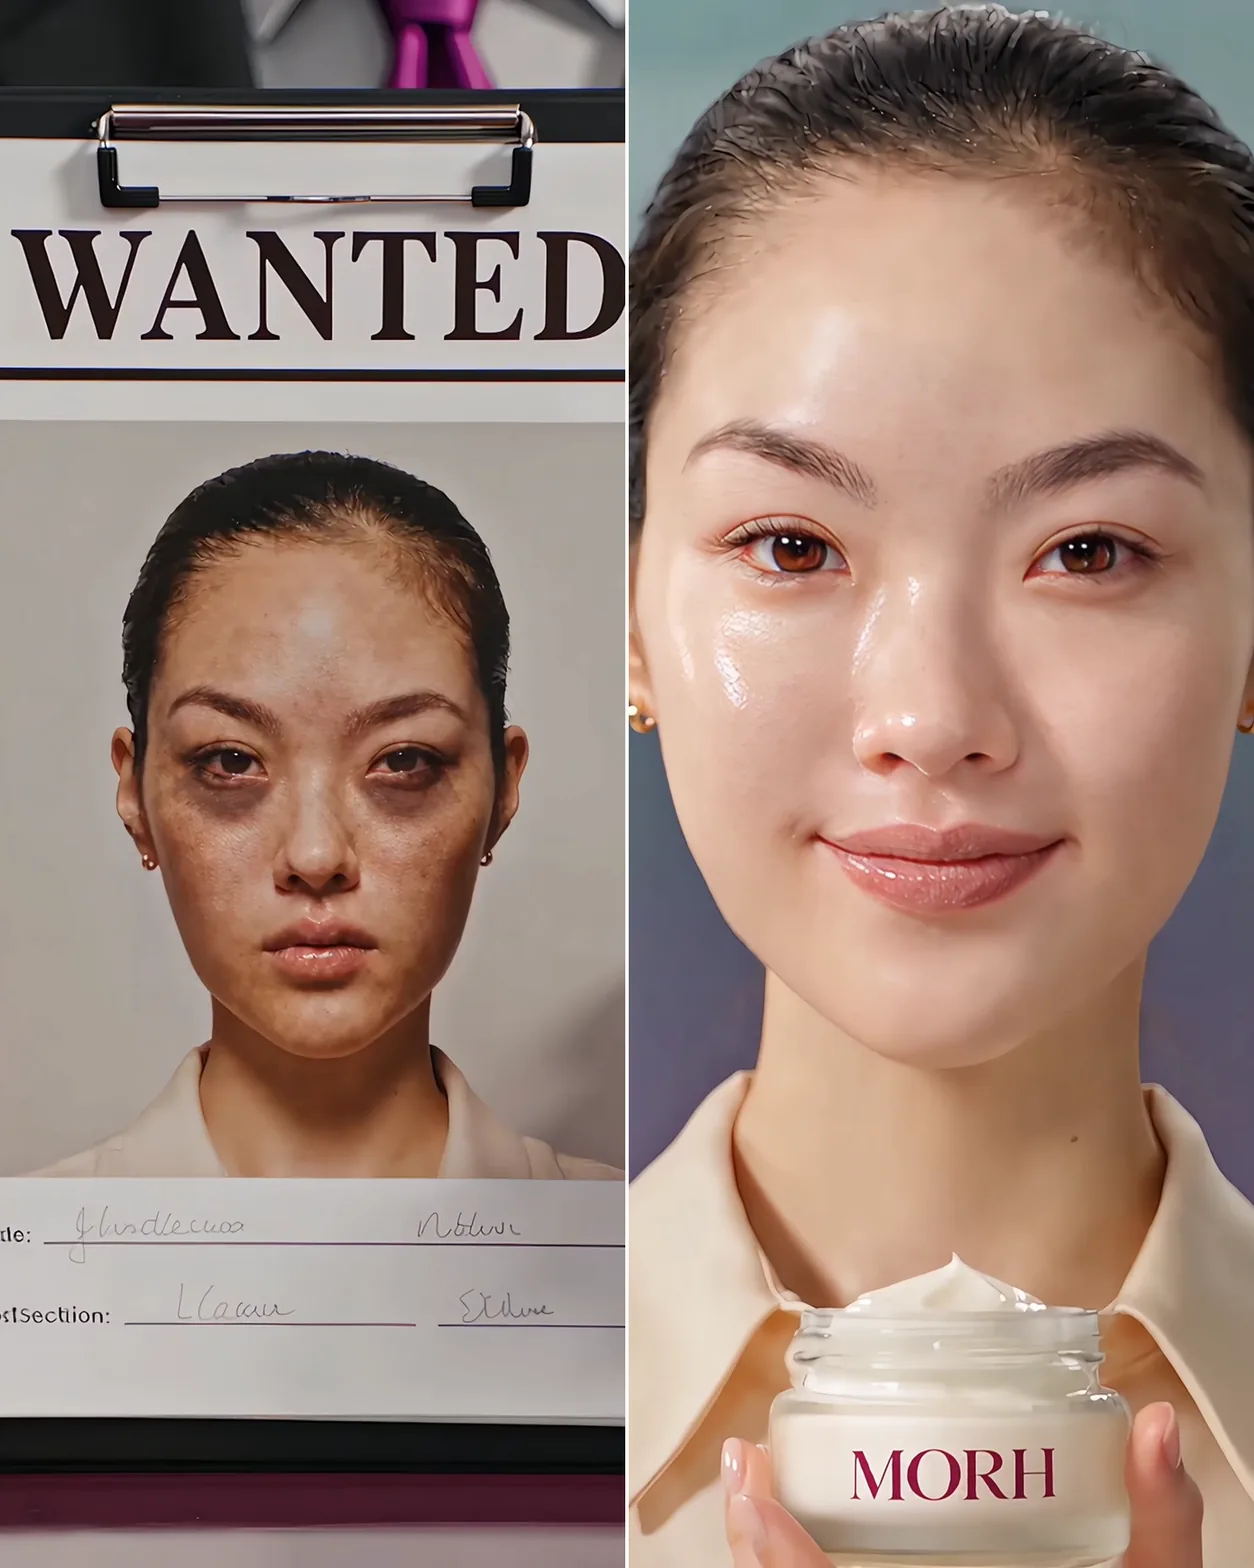
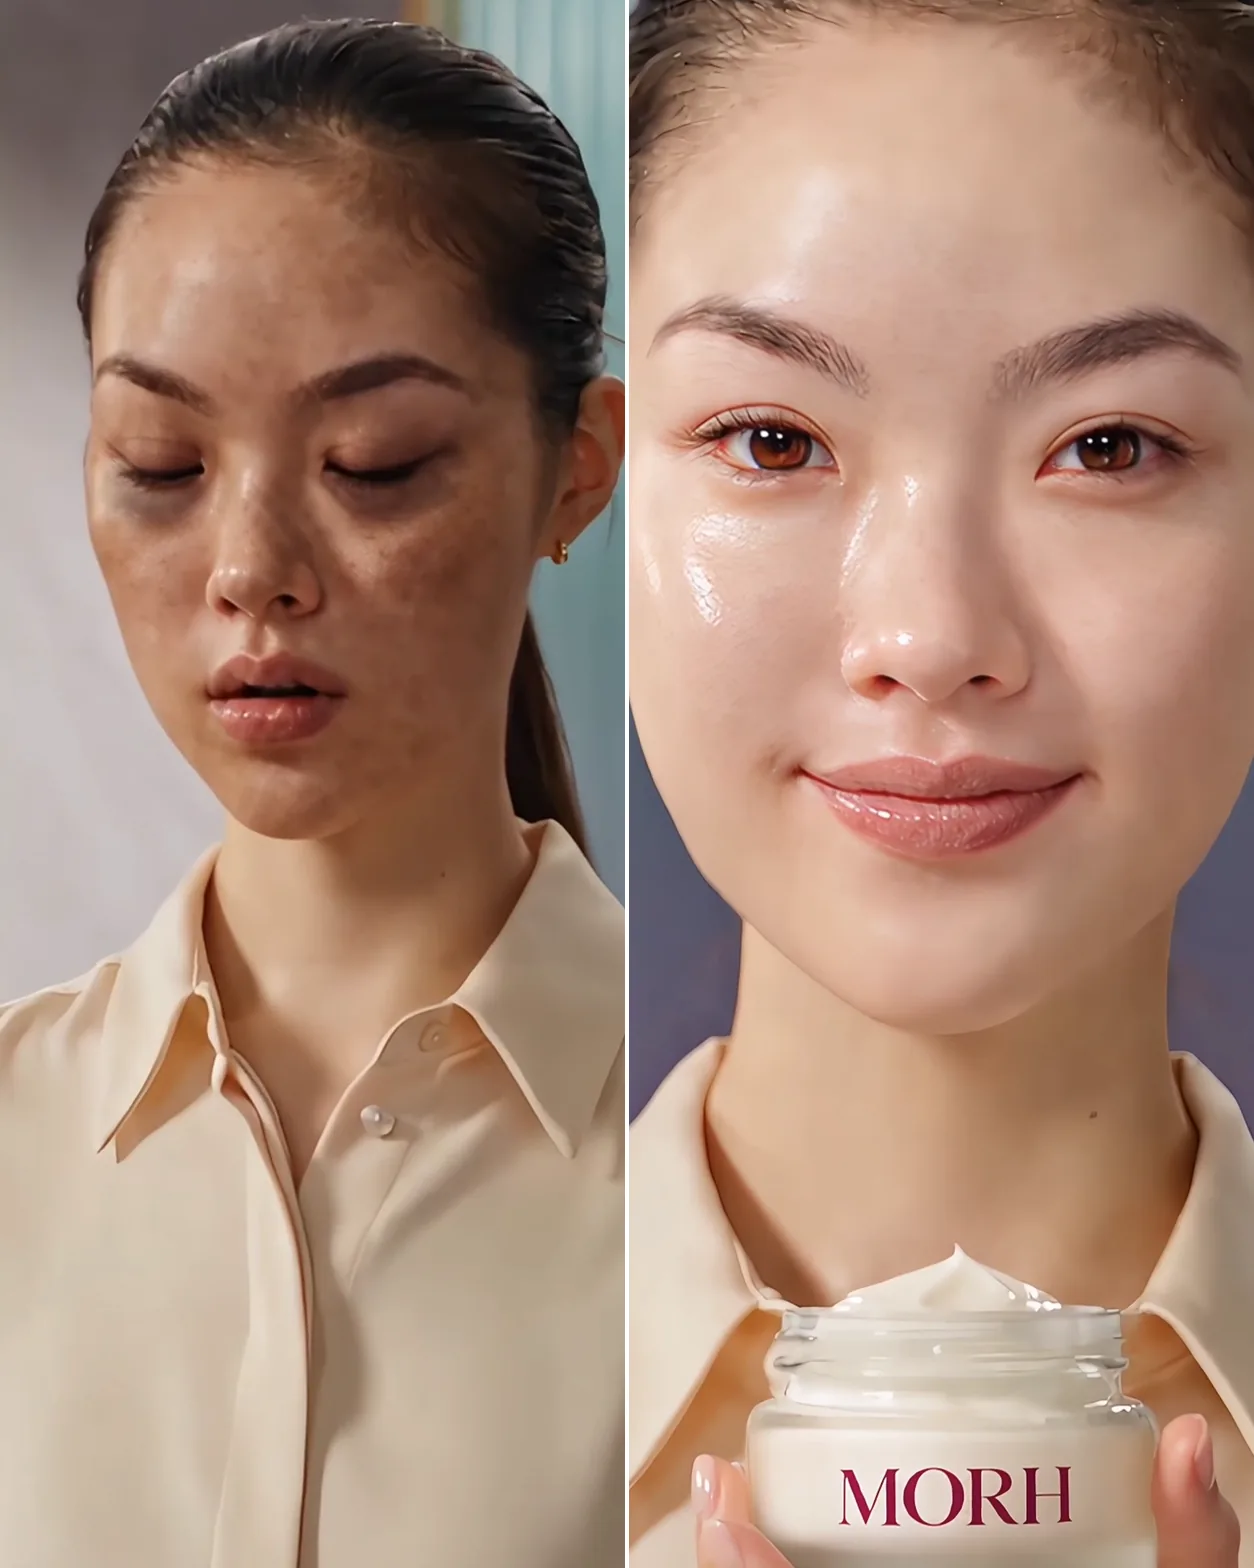
🍱 assets: 광고 첫 화면 전/후 사진과 고민 섹션 사진 추가
- 엘리베이터·로블록스도 WANTED처럼 릴스 전/후 장면을 나란히 붙임
- WANTED 전 장면을 수배 전단 대신 가방을 꺼내기 전 한숨 쉬는 얼굴로 교체
- 로블록스 후 장면은 roblox_main 이미지 사용
- 고민 섹션 사진 3장(pain-concealer·office·rush) 추가, 대체 문구 작성

diff --git a/src/i18n/ko-story.ts b/src/i18n/ko-story.ts
@@ -12,7 +12,7 @@ const FOOTNOTE = '20–45세 여성 32명, 4주, 1일 2회 도포 (화장대 지
 
 export const koStory = {
   /* ───────── A. 상품 페이지 · 상세 설명 탭 (2026-11 개편: 광고 → 첫 화면 → 타깃 → 고민 → 해결) ─────────
-     사진: image.name 파일이 없으면 빈 박스. hint = 넣으면 좋은 사진(화면에는 표시하지 않음). ad-* 3장은 릴스 장면에서 잘라 넣음 */
+     사진: image.name 파일이 없으면 빈 박스. hint = 넣으면 좋은 사진(화면에는 표시하지 않음). ad-* 3장은 릴스의 전/후 장면을 나란히 붙임 */
   detail: {
     /* 0. 첫 화면 — 광고 링크 utm_content 에 따라 하나만 보임(없으면 elevator). 광고가 던진 질문에 바로 답하기 */
     heads: {
@@ -20,21 +20,21 @@ export const koStory = {
         ask: '14일이면, 피부는 어디까지 달라질까요?',
         title: ['14일, 피부 밝기', '+10.0%'],
         body: '미백 고시 함량 2~5% 중 가장 높은 5.0%. 나이아신아마이드를 꽉 채웠어요.',
-        image: { name: 'ad-elevator', alt: '엘리베이터 광고 장면: MORH 크림을 들고 웃는 모델', hint: '엘리베이터 릴스 마지막 장면: 연보라 배경에서 MORH를 들고 웃는 모델(세로 4:5)' },
+        image: { name: 'ad-elevator', alt: '엘리베이터 광고 전후 장면: 다크서클을 만지며 피곤해하던 얼굴과, MORH를 들고 환하게 웃는 얼굴', hint: '엘리베이터 릴스 전/후 나란히: 거울 앞 피곤한 얼굴(2.5초) → 연보라 배경에서 MORH를 들고 웃는 모델(11.8초), 전체 4:5' },
         footnote: FN_DEVICE,
       },
       roblox: {
         ask: '아침마다 가리는 데 몇 분 쓰세요?',
         title: ['아침 베이스 화장,', '4분에서 30초로'],
         body: '4주 동안 매일 아침, 화장대 앞에서 걸린 시간과 쓴 제품을 기록했어요.',
-        image: { name: 'ad-roblox', alt: '로블록스 광고 장면: 4주 달력 아래에서 MORH 크림을 바르는 캐릭터', hint: '로블록스 릴스 \'이젠 컨실러 패스~\' 장면 또는 지하철 \'안 뛰어도 되네\' 장면(4:5)' },
+        image: { name: 'ad-roblox', alt: '로블록스 광고 전후 장면: 급하게 화장품을 쏟아붓던 캐릭터와, MORH를 바르며 웃는 캐릭터', hint: '로블록스 릴스 전/후 나란히: \'일단 가리고 보자\' 당황한 얼굴(3.3초) → MORH를 바르며 웃는 캐릭터(roblox_main), 전체 4:5' },
         footnote: FN_DIARY,
       },
       wanted: {
         ask: 'WANTED? 잠깐, 저 아닌데요.',
         title: ['칙칙해 보이던 얼굴,', '14일 뒤 밝기 +10.0%'],
         body: '수배범이 아니라 피부 관리 중이었어요. 나이아신아마이드 5.0%가 피부 미백에 도움을 줘요.',
-        image: { name: 'ad-wanted', alt: 'WANTED 광고 장면: 칙칙해 보이던 수배 전단 속 얼굴과 MORH를 바른 뒤 환해진 얼굴', hint: 'WANTED 릴스: 칙칙한 얼굴의 수배 전단 → 크림을 바른 뒤 환해진 얼굴, 두 컷을 나란히(4:5)' },
+        image: { name: 'ad-wanted', alt: 'WANTED 광고 전후 장면: 칙칙한 얼굴로 한숨 쉬던 모습과, MORH를 바른 뒤 환해진 얼굴', hint: 'WANTED 릴스 전/후 나란히: 가방을 꺼내기 전 한숨 쉬는 얼굴(2.6초) → 크림을 바른 뒤 환해진 얼굴(9.2초), 전체 4:5' },
         footnote: FN_DEVICE,
       },
     },
@@ -63,9 +63,9 @@ export const koStory = {
     pain: {
       title: ['가리는 단계는', '내일 아침에도 필요해요'],
       photos: [
-        { name: 'pain-concealer', alt: '', label: '또 꺼낸 컨실러', hint: '거울 앞에서 컨실러를 두드리는 손 클로즈업(1:1)' },
-        { name: 'pain-office', alt: '', label: '냉난방 사무실', hint: '모니터 앞, 건조한 사무실 조명 아래 얼굴(1:1)' },
-        { name: 'pain-rush', alt: '', label: '늦어지는 출근', hint: '현관·지하철에서 급하게 뛰는 출근길(1:1)' },
+        { name: 'pain-concealer', alt: '볼에 컨실러를 찍어 바르는 얼굴 클로즈업', label: '또 꺼낸 컨실러', hint: '볼에 컨실러를 찍어 바르는 얼굴 클로즈업(1:1)' },
+        { name: 'pain-office', alt: '에어컨 옆 모니터 앞에서 볼을 괴고 지친 얼굴', label: '냉난방 사무실', hint: '에어컨 옆 모니터 앞, 볼을 괴고 지친 얼굴(1:1)' },
+        { name: 'pain-rush', alt: '출근 전 가방에서 쿠션과 컨실러를 급하게 꺼내는 모습', label: '늦어지는 출근', hint: '출근 전 가방에서 쿠션·컨실러를 급하게 꺼내는 모습(1:1)' },
       ],
       body: [
         '칙칙해 보이는 날 컨실러를 한 번 더하면, 그날은 넘어가요.',
